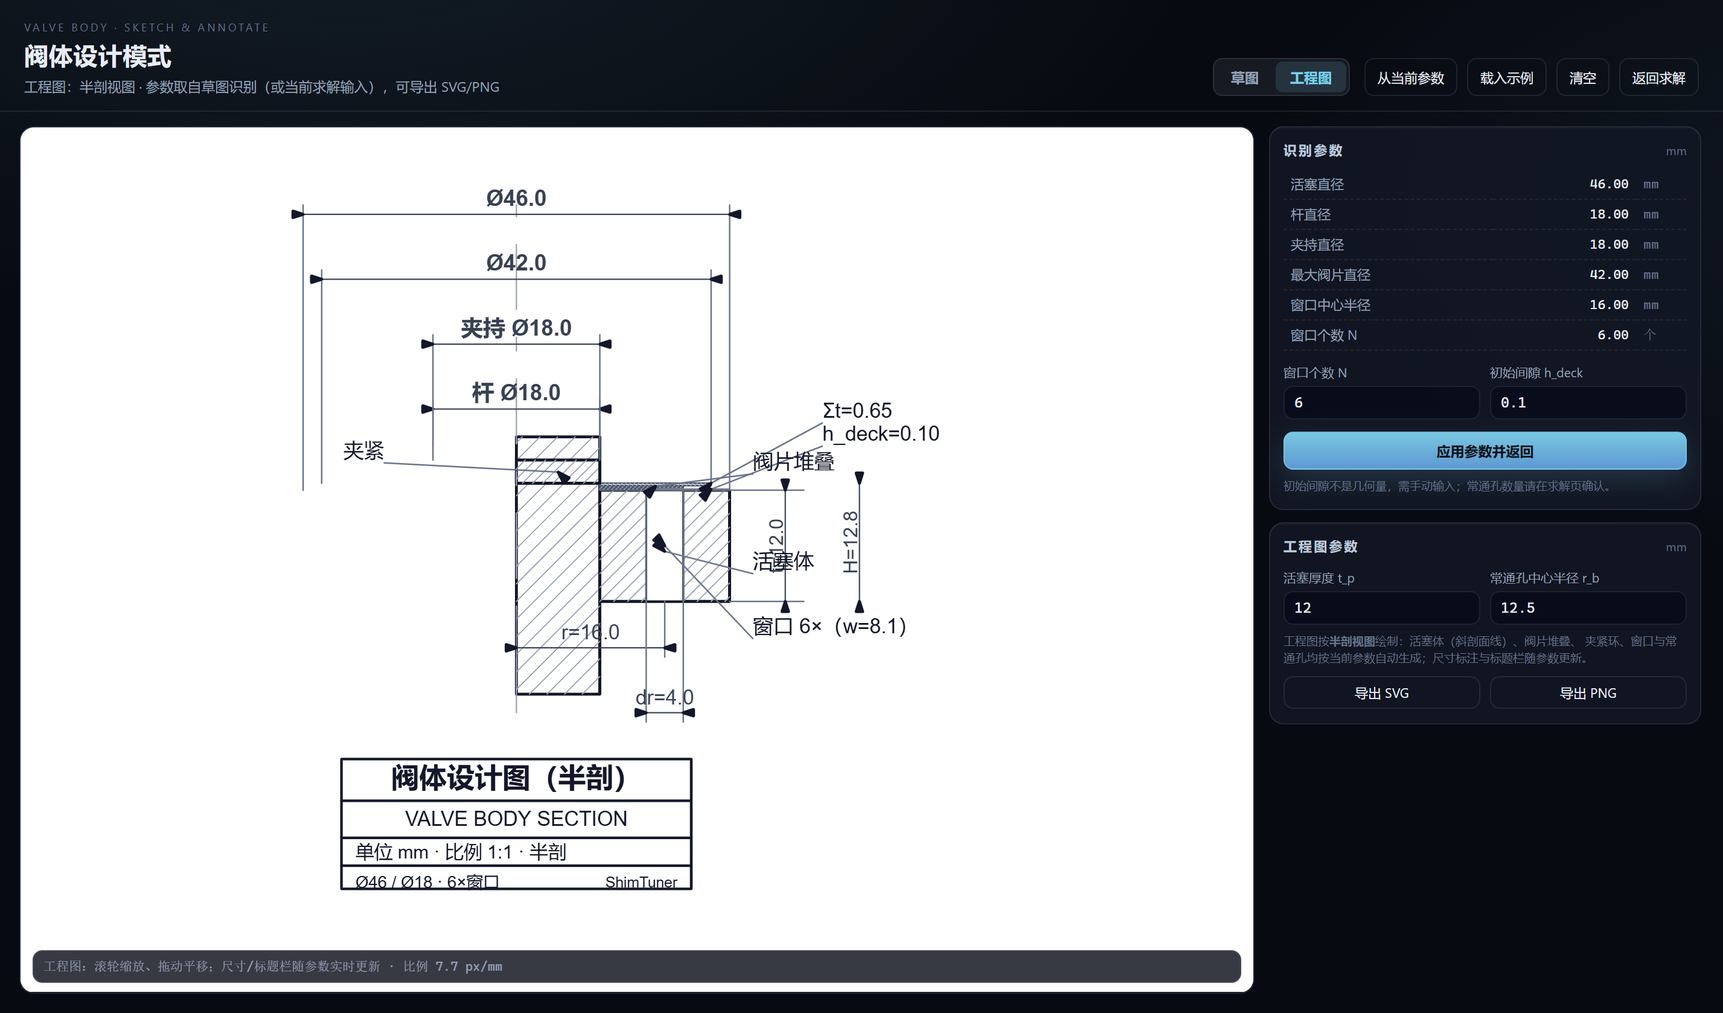
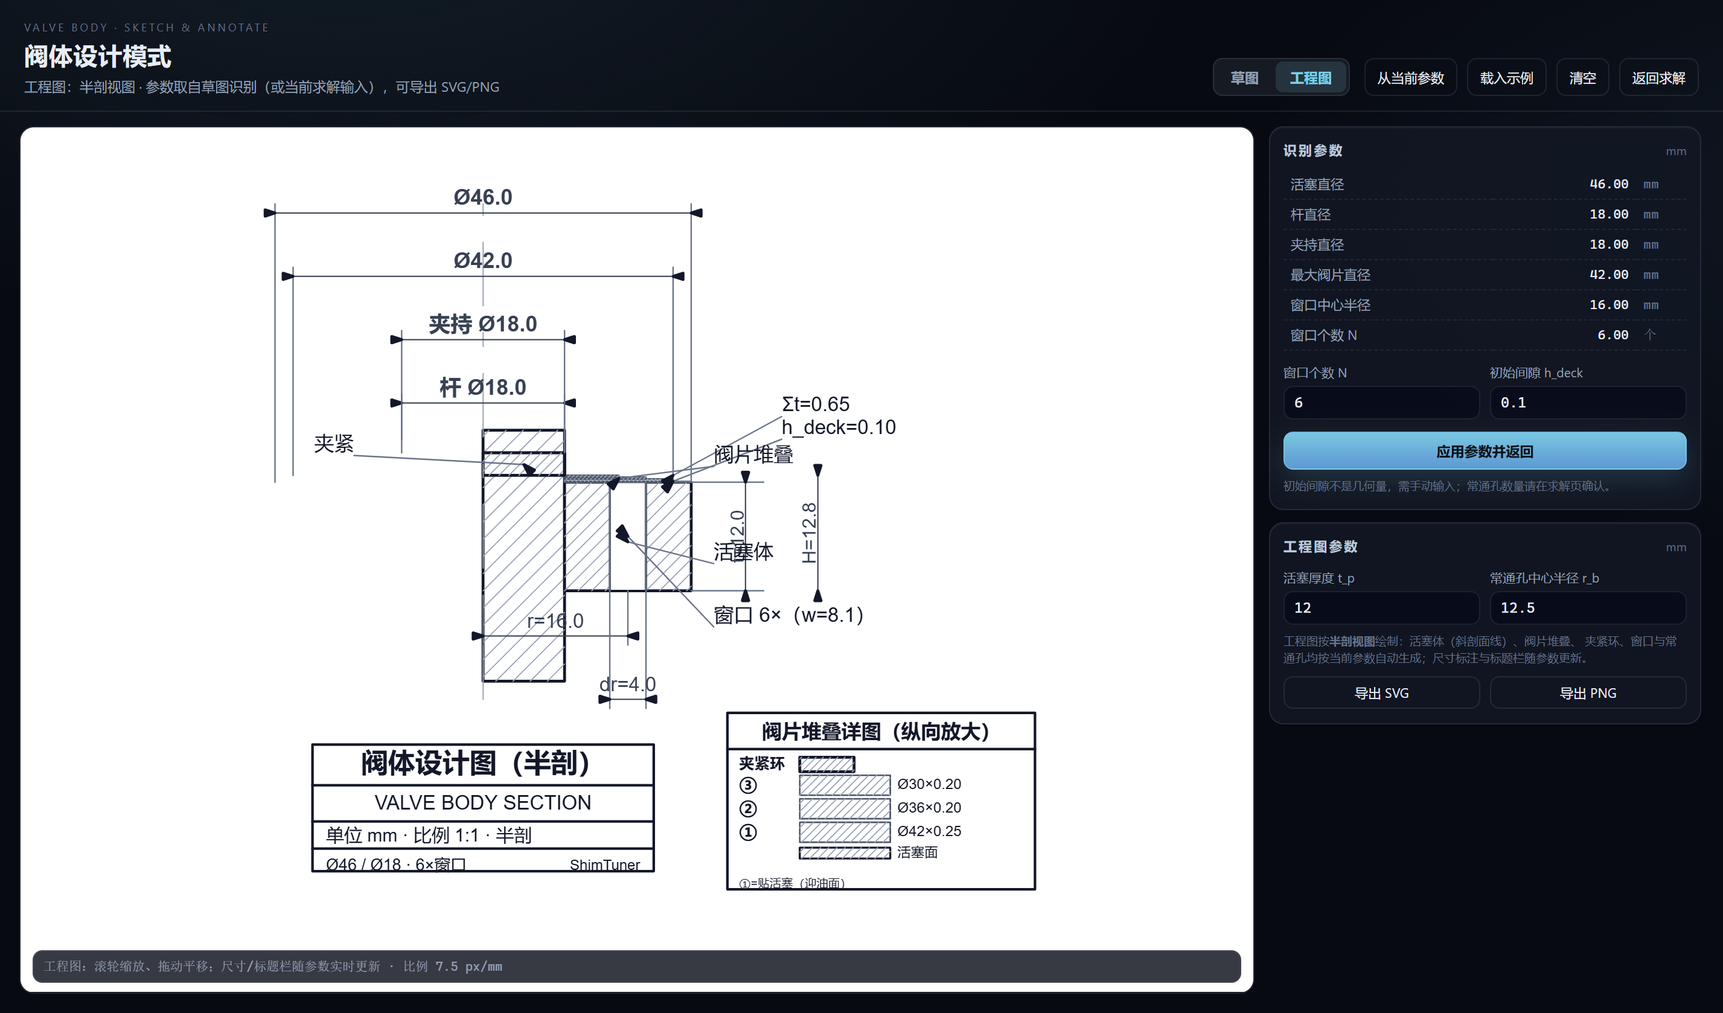
fix: 阀片层序修正（第 1 片贴活塞）+ 工程图堆叠详图 + 高速收敛加速
- 层序约定：layers[0] = 贴活塞第 1 片（迎油面），油压作用其底面，向上逐层接触传力
- FlowSolver：build_stack 反转层序交给 LayeredStack，并令 load_layer=最底层；间隙取自该层
- LayeredStack：新增 load_layer，载荷面按该层径向覆盖生成（不再固定顶片）
- 工程图：按用户层序自下而上绘制，新增阀片堆叠详图（①贴活塞/②/③/夹紧环，纵向放大）
- 收敛：自适应松弛 + 信赖域扩张；v=3 线性 53→21 次、vK 36→15 次
- 数值更新：线性 378.6 N、线性+窗口 451.2 N、vK 486.2 N、vK+窗口 547.4 N；默认迭代 265.0 N
- 测试：新增 LayerOrderTest（层序/底层加载/三片接触传力）与工程图详图断言；30+9 项通过

Changed region(s): [[0.1559, 0.2479, 0.5925, 0.8987], [0.1559, 0.1859, 0.4366, 0.2169], [0.2183, 0.3099, 0.343, 0.3409]]

diff --git a/FlowSolver/desktop/renderer/valve-drawing.js b/FlowSolver/desktop/renderer/valve-drawing.js
@@ -172,7 +172,8 @@
     // 初始间隙 + 阀片堆叠（最底下一片先画，state.layers[0] = 顶片）
     line(c, clampR, p.tP, Math.max(shimR, R), p.tP, 'thin');
     line(c, clampR, zShim0, Math.max(shimR, R), zShim0, 'thin');
-    const layers = p.layers.slice().reverse();
+    // p.layers[0] = 贴活塞第 1 片，自下而上绘制
+    const layers = p.layers.slice();
     let z = zShim0;
     for (const l of layers) {
       const x0 = Math.max(0, l.din / 2);
@@ -241,6 +242,39 @@
            R + 2.5, zTop + 1.0, '阀片堆叠', 'start');
     leader(c, clampR * 0.5, zTop + 1.2, -R * 0.62, zTop + 2.2, '夹紧', 'end');
 
+    // ---- 阀片堆叠详图（纵向放大，明确装配次序）----
+    const det = { x0: R + 4, x1: R + 38, z0: -33, z1: -13.5 };
+    rect(c, det.x0, det.z0, det.x1 - det.x0, det.z1 - det.z0, 'title', '#ffffff');
+    line(c, det.x0, det.z1 - 4, det.x1, det.z1 - 4, 'title');
+    text(c, (det.x0 + det.x1) / 2, det.z1 - 2.2, '阀片堆叠详图（纵向放大）',
+         2.2, 'text', 'center', true);
+    const detX = det.x0 + 8;
+    const barW = (dout) => Math.max(4, Math.min(10, dout / 2));
+    // 活塞面示意（详图底部）
+    rect(c, detX, det.z0 + 3.4, 10, 1.2, 'cut');
+    hatch(c, detX, det.z0 + 3.4, 10, 1.2, 'hatch', 0.9);
+    text(c, detX + 10.8, det.z0 + 4.0, '活塞面', 1.5, 'text', 'start');
+    text(c, det.x0 + 1.3, det.z0 + 0.6, '①=贴活塞（迎油面）', 1.3,
+         'text', 'start');
+    let dz = det.z0 + 5.2;
+    const circled = ['①', '②', '③', '④', '⑤', '⑥', '⑦', '⑧'];
+    // 与主图一致：第 1 片贴活塞，自下而上
+    for (let i = 0; i < p.layers.length && i < circled.length; i++) {
+      const l = p.layers[i];
+      const w = barW(l.dout);
+      rect(c, detX, dz, w, 2.2, 'shimline');
+      hatch(c, detX, dz, w, 2.2, 'shim', 0.9);
+      text(c, det.x0 + 1.3, dz + 1.1, circled[i], 2.0, 'text', 'start', true);
+      text(c, detX + w + 0.8, dz + 1.1,
+           'Ø' + l.dout.toFixed(0) + '×' + l.t.toFixed(2), 1.6,
+           'text', 'start');
+      dz += 2.2 + 0.4;
+    }
+    // 夹紧环（顶部）
+    rect(c, detX, dz, 6, 1.6, 'outline');
+    hatch(c, detX, dz, 6, 1.6, 'hatch', 0.8);
+    text(c, det.x0 + 1.3, dz + 0.8, '夹紧环', 1.7, 'text', 'start', true);
+
     // ---- 标题栏 ----
     const tb = { x0: -R * 0.82, x1: R * 0.82, z0: -31, z1: -17 };
     rect(c, tb.x0, tb.z0, tb.x1 - tb.x0, tb.z1 - tb.z0, 'title', '#ffffff');
@@ -257,8 +291,8 @@
     text(c, tb.x1 - 1.5, tb.z1 - 13.4, 'ShimTuner', 1.6, 'text', 'end');
 
     const bbox = {
-      x0: -R - 8, x1: R + 34,
-      z0: tb.z0 - 2, z1: dZ + 21 + 6,
+      x0: -R - 8, x1: R + 42,
+      z0: Math.min(tb.z0, det.z0) - 2, z1: dZ + 21 + 6,
     };
     return { cmds: c, bbox, p };
   }

diff --git a/FlowSolver/desktop/test-design.js b/FlowSolver/desktop/test-design.js
@@ -92,8 +92,13 @@ const svg = Drawing.toSVG(dwg);
 assert.ok(svg.startsWith('<svg'), 'SVG 头');
 assert.ok(svg.includes('VALVE BODY'), '标题栏');
 assert.ok(svg.includes('Ø46'), '直径标注');
-assert.strictEqual(dwg.cmds.filter((c) => c.s === 'shimline').length, 2,
-  '两层阀片都应绘制');
+assert.ok(svg.includes('阀片堆叠详图'), '应有阀片堆叠详图');
+assert.ok(svg.includes('①=贴活塞'), '详图应标出第 1 片贴活塞');
+const shimRects = dwg.cmds.filter((c) => c.s === 'shimline' && c.y > 0);
+assert.strictEqual(shimRects.length, 2, '两层阀片都应绘制');
+// 层序：第 1 片（42）贴活塞 → 画在下方且更宽；第 2 片（36）在其上
+assert.ok(shimRects[0].y < shimRects[1].y, '第 1 片应在下方（贴活塞）');
+assert.ok(shimRects[0].w > shimRects[1].w, '第 1 片（42）应比上一层（36）宽');
 
 // 9) 圆形过孔与长条窗口都用同一套参数识别
 const circWin = V.windowGeometry({ kind: 'circle', cx: 12, cy: 0, r: 2 });

diff --git a/FlowSolver/desktop/renderer/index.html b/FlowSolver/desktop/renderer/index.html
@@ -87,7 +87,7 @@
       </section>
 
       <section class="panel compact" id="layerPanel">
-        <div class="panel-head"><h2>阀片堆叠</h2><span class="panel-hint">迭代模式 · 第 1 行 = 顶片</span></div>
+        <div class="panel-head"><h2>阀片堆叠</h2><span class="panel-hint">迭代模式 · 第 1 行 = 贴活塞（迎油面），向上依次</span></div>
         <div class="layer-head"><span>#</span><span>内径 mm</span><span>外径 mm</span><span>厚度 mm</span><span></span></div>
         <div class="layer-rows" id="layerRows"></div>
         <div class="row-actions">

diff --git a/DeflectionSolver/shim_layered.py b/DeflectionSolver/shim_layered.py
@@ -6,6 +6,8 @@
       等效阶梯刚度板）的**分层升级版**。网格、单元（Q4 Mindlin, 剪切 1×1 减缩）
       与 `shim_element` 完全共用，唯一区别:
         * 每层有自己的中面位移场 (u,v,w,φx,φy)，不再压成单张等效板;
+        * 层序约定：layers[0] = 最上层（默认 load_layer=0，顶面受压）；
+          FlowSolver 使用 layers[0]=贴活塞第1片，故反转层序后令 load_layer=最底层。
         * 层间只有**法向罚接触**（可分离、不传切向力 = μ=0）;
         * 每层在自己的内缘 max(clamp, aᵢ) 处固支。
 
@@ -71,7 +73,7 @@ class LayeredStack:
                  clamp_radius_mm: float | None = None,
                  k_n: float = 1e15, max_outer_iter: int = 20,
                  nl: bool = False, follower: bool = False,
-                 sector: int = 1):
+                 sector: int = 1, load_layer: int = 0):
         self.layers = [l if isinstance(l, ShimLayer) else ShimLayer(*_triple(l))
                        for l in layers]
         if not self.layers:
@@ -83,6 +85,9 @@ class LayeredStack:
         self.max_outer_iter = int(max_outer_iter)
         self.nl = bool(nl)
         self.follower = bool(follower)
+        # 受压层：默认 0（最上层，经典"顶片受压"用法）；
+        # FlowSolver 用 layers[0]=贴活塞第1片的约定，会反转后令 load_layer=最底层。
+        self.load_layer = int(load_layer)
 
         clamp_mm = (clamp_radius_mm if clamp_radius_mm is not None
                     else min(l.d_in_mm for l in self.layers) / 2.0)
@@ -112,6 +117,8 @@ class LayeredStack:
         self.gs = q4_geo(self.x, self.y, GAUSS_1X1)[0]
         self.er_map = np.arange(self.M) // self.n_theta
 
+        if not (0 <= self.load_layer < len(self.layers)):
+            raise ValueError("load_layer 超出层数范围")
         self._build_layers()
         self._build_contact()
         self._build_load()
@@ -282,16 +289,29 @@ class LayeredStack:
         self._prep = None           # 非线性装配的常值单元数据缓存
 
     # ---------------- 载荷 ----------------
+    def _load_face_mask(self) -> np.ndarray:
+        """load_layer 的单元载荷面掩膜（按该层径向覆盖，而非固定顶片）."""
+        li = self.load_layer
+        layer = self.layers[li]
+        r_in = max(self.clamp_m, layer.a_m)
+        band = ((self.mesh["rm_c"] >= r_in - 1e-12)
+                & (self.mesh["rm_c"] <= layer.b_m + 1e-12))
+        face_c = np.asarray(band, dtype=bool)
+        face_e = np.repeat(face_c, self.n_theta)
+        mask = np.zeros(self.M, dtype=bool)
+        mask[self.elem_i[li]] = True
+        mask &= face_e
+        return mask
+
     def _build_load(self):
-        face = self.mesh["face_e"]
-        keep = np.zeros(self.M, dtype=bool)
-        keep[self.elem_i[0]] = True
+        keep = self._load_face_mask()
+        li = self.load_layer
         top_conn = self.conn[keep]
-        top_w = self.ldof[0][top_conn][:, :, 2]          # (Mt,4)
+        top_w = self.ldof[li][top_conn][:, :, 2]          # (Mt,4)
         f_unit = np.zeros(self.n_dof)
         for (N, dNx, dNy, ajd) in self.gb:
             fe = (ajd[:, None] * N)
-            fe[~(face & keep)] = 0.0
+            fe[~keep] = 0.0
             rep_w = self.dof_rep[top_w]
             ok = rep_w >= 0
             np.add.at(f_unit, rep_w[ok], fe[keep][ok])
@@ -304,10 +324,8 @@ class LayeredStack:
         ∫ N·p dA 装配。设置后用 ``solve(1.0)`` 求解（此时 f_unit 已是 N）。
         传负压即等效于反向（例如从阀片底面把阀片顶开）。
         """
-        face = self.mesh["face_e"]
-        keep = np.zeros(self.M, dtype=bool)
-        keep[self.elem_i[0]] = True
-        keep &= face
+        keep = self._load_face_mask()
+        li = self.load_layer
         rbar = self.mesh["rbar_e"][keep]
         thbar = self.mesh["thbar_e"][keep]
         p_e = np.asarray(pressure(rbar, thbar), dtype=float)
@@ -315,7 +333,7 @@ class LayeredStack:
             p_e = np.full(rbar.shape, float(p_e))
         if p_e.shape != rbar.shape:
             raise ValueError("pressure() 返回值形状必须与 r 一致")
-        top_w = self.ldof[0][self.conn[keep]][:, :, 2]
+        top_w = self.ldof[li][self.conn[keep]][:, :, 2]
         f = np.zeros(self.n_dof)
         for (N, dNx, dNy, ajd) in self.gb:
             fe = ajd[keep][:, None] * N[None, :] * p_e[:, None]

diff --git a/FlowSolver/coupling.py b/FlowSolver/coupling.py
@@ -113,12 +113,18 @@ def build_stack(layers_mm, piston, spec: IterationSpec) -> LayeredStack:
     只解 1/N 扇区 + 周期边界，DOF 降为 1/N；等效全环分辨率 = n_theta_eff。
     要求 n_theta_eff 能被 N 整除且每扇区 ≥3 个周向单元，否则退回整环。
     """
-    layers = [ShimLayer(float(a), float(b), float(t)) for a, b, t in layers_mm]
+    # FlowSolver 约定：layers_mm[0] = 贴活塞的第 1 片（迎油面），向上依次；
+    # LayeredStack 约定：layers[0] = 最上层（离活塞最远）。
+    # 因此这里反转层序，并把载荷施加到反转后的最底层（= 用户第 1 片）。
+    layers_std = [ShimLayer(float(a), float(b), float(t))
+                  for a, b, t in layers_mm]
+    layers = list(reversed(layers_std))
     sector, n_theta = sector_plan(piston, spec)
     return LayeredStack(layers, n_elem_base_radial=spec.n_radial,
                         n_theta=n_theta,
                         clamp_radius_mm=piston.seat_radius_mm,
-                        nl=spec.nl, sector=sector)
+                        nl=spec.nl, sector=sector,
+                        load_layer=len(layers) - 1)
 
 
 def window_profile(piston, contrast=None):
@@ -206,7 +212,9 @@ def _pressure_fn(res_flow, piston, p_back, spec: IterationSpec | None = None):
 
 
 def _stack_w(stack: LayeredStack) -> np.ndarray:
-    return np.array([stack.w_matrix(0)[i].mean() for i in range(stack.n_r)])
+    # 流通间隙由"贴活塞第 1 片"（反转后的 load_layer）决定
+    li = int(getattr(stack, "load_layer", 0))
+    return np.array([stack.w_matrix(li)[i].mean() for i in range(stack.n_r)])
 
 
 def iterate_point(v_mps: float, piston, fluid, stack: LayeredStack,
@@ -218,7 +226,8 @@ def iterate_point(v_mps: float, piston, fluid, stack: LayeredStack,
     Q = kin["Q_valve_m3s"]                 # 通过活塞阀的总流量（主阀 + 常通孔）
     Q_rod = kin["Q_rod_m3s"]               # 杆侵入油缸的体积速度
     p_back = fluid.p_back_MPa * 1e6
-    step = spec.relax_step_um * 1e-6
+    step0 = spec.relax_step_um * 1e-6
+    step = step0
     hist: list[dict] = []
     converged = False
     res = None
@@ -241,14 +250,28 @@ def iterate_point(v_mps: float, piston, fluid, stack: LayeredStack,
         else:
             stack.solve(1.0)
         w_new = _stack_w(stack)
-        delta = np.clip(w_new - w, -step, step)
+        raw = w_new - w
+        clipped = bool(np.any(np.abs(raw) > step))
+        delta = np.clip(raw, -step, step)
         d = float(np.abs(delta).max())
-        w = w + spec.alpha * delta
-        hist.append(dict(iter=it, residual_um=d * 1e6,
+        # 自适应松弛：残差稳定下降时逐步加大 α；回升时回退（外层定点加速）
+        alpha = spec.alpha
+        if hist:
+            ratio = d / max(hist[-1]["_d_m"], 1e-18)
+            if ratio < 0.8:
+                alpha = min(0.85, alpha + 0.05)
+            elif ratio > 1.05:
+                alpha = max(0.2, alpha * 0.8)
+        w = w + alpha * delta
+        # 信赖域扩张：持续被截断且残差未回升时放大步长（高速工况少迭代）
+        if clipped and (not hist or d <= hist[-1]["residual_um"] * 1e-6 + 1e-18):
+            step = min(step * 1.6, step0 * 4.0)
+        hist.append(dict(iter=it, residual_um=d * 1e6, _alpha=alpha,
                          F_N=res.F_damper, dp_MPa=res.dp_total / 1e6,
                          h_port_um=res.h_port * 1e6,
                          w_tip_um=float(w[-1]) * 1e6,
-                         Q_bypass_m3s=res.Q_bypass_m3s))
+                         Q_bypass_m3s=res.Q_bypass_m3s,
+                         _d_m=d))
         if d < spec.tol_um * 1e-6:
             converged = True
             break
@@ -257,6 +280,9 @@ def iterate_point(v_mps: float, piston, fluid, stack: LayeredStack,
     gap = cf.ArrayGap(r_shim, -w, h_deck_m=piston.h_deck_m())
     fin = cf.solve_split(Q, piston, fluid, gap, n_grid=spec.grid,
                          C_d=spec.C_d, C_f=spec.C_f)
+    for h in hist:
+        h.pop("_d_m", None)
+        h.pop("_alpha", None)
     return dict(v_mps=float(v_mps), Q_m3s=Q, Q_rod_m3s=Q_rod, kin=kin,
                 w=w, res=fin, history=hist,
                 converged=converged, iterations=len(hist),

diff --git a/FlowSolver/backend/service.py b/FlowSolver/backend/service.py
@@ -379,13 +379,15 @@ def iterate(req) -> dict[str, Any]:
                                 fin.r_m * 1e3, fin.p_pa / 1e6)],
                 markers=_markers(piston))
     defl_series = []
+    n_layers = len(stack.layers)
     for i, layer in enumerate(stack.layers):
         ir = np.unique(stack.nodes_i[i] // stack.n_theta_nodes)
         r_i = stack.r_nodes[ir] * 1e3
         w_i = [stack.w_matrix(i)[j].mean() * 1e6 for j in ir]
         defl_series.append(_series(
-            f"w{i}", f"第{i+1}片 Ø{layer.d_out_mm:g}", PALETTE["accent2"],
-            r_i, w_i, dash="solid" if i == 0 else "dash"))
+            f"w{i}", f"第{n_layers - i}片 Ø{layer.d_out_mm:g}（自活塞向上）",
+            PALETTE["accent2"],
+            r_i, w_i, dash="solid" if i == n_layers - 1 else "dash"))
     defl = dict(title="收敛后的挠度场 w(r)（负值 = 抬升）",
                 x_label="半径 r [mm]", y_label="挠度 w [µm]",
                 series=defl_series, markers=_markers(piston))
@@ -448,6 +450,7 @@ def iterate(req) -> dict[str, Any]:
     notes = ["迭代变量 w(r) = 阀片挠度场；压力场由 FlowSolver 给出，"
              "挠度由 DeflectionSolver 分层模型给出。",
              "负 w = 阀片被油压顶开；间隙 h = h_deck − w。",
+             "层序：layers[0] = 贴活塞第 1 片（迎油面），油压作用其底面，向上逐层接触传力。",
              "v0 迭代：固定松弛 + 信赖域；收敛判据 max|Δw| < tol。"]
     if spec.window_load:
         notes.append("窗口分布载荷（v2）：基础流场压力乘以周向平滑调制 "

diff --git a/FlowSolver/tests/test_backend_service.py b/FlowSolver/tests/test_backend_service.py
@@ -430,5 +430,33 @@ class ViscosityTest(unittest.TestCase):
         self.assertIn("cSt", line[0])
 
 
+class LayerOrderTest(unittest.TestCase):
+    """层序约定：UI 第 1 行 = 贴活塞（迎油面），LayeredStack 内部反转并加载底层."""
+
+    def test_stack_reversed_and_bottom_loaded(self):
+        piston, fluid = cf.demo_piston(), cf.DEMO_FLUID
+        user_layers = [(18, 42, 0.25), (18, 36, 0.20), (18, 30, 0.20)]
+        spec = cp.IterationSpec(n_radial=8, n_theta=12)
+        stack = cp.build_stack(user_layers, piston, spec)
+        # 内部层序：最上层 → 贴活塞层
+        self.assertEqual([l.d_out_mm for l in stack.layers], [30.0, 36.0, 42.0])
+        self.assertEqual(stack.load_layer, 2)
+        self.assertEqual(stack.layers[stack.load_layer].d_out_mm, 42.0)
+
+    def test_pressure_on_piston_side_couples_all_layers(self):
+        piston = cf.demo_piston()
+        user_layers = [(18, 42, 0.25), (18, 36, 0.20), (18, 30, 0.20)]
+        spec = cp.IterationSpec(n_radial=8, n_theta=12)
+        stack = cp.build_stack(user_layers, piston, spec)
+        stack.set_pressure(lambda r, th: -1.0e6)
+        stack.solve(1.0)
+        # 第 1 片（贴活塞）受油压，经接触向上逐层传力：三片都应变形
+        for i in range(len(stack.layers)):
+            wm = stack.w_matrix(i)
+            self.assertGreater(float(np.abs(wm).max()), 1e-6,
+                               f"第{i+1}层未参与变形（接触未传力）")
+        self.assertGreater(stack.info["n_active"], 0)
+
+
 if __name__ == "__main__":
     unittest.main(verbosity=2)

diff --git a/FlowSolver/README.md b/FlowSolver/README.md
@@ -170,8 +170,10 @@ Tk GUI 与桌面端「活塞数据」中的**常通孔 Ø / 个数 / C_d**、
 | 线性 + 窗口分布 12×48（扇区 6×8） | — | **≈0.05 s/点** |
 | **vK + 窗口分布 12×48（扇区 6×8）** | **≈183.6 s/点** | **≈3.0 s/点（≈60×）** |
 
-结果不变（F 分别 249.8 / 282.2 / 369.8 N 与优化前一致）。扇区降维后 **vK + 窗口分布
-12×48 从 183.6 s/点降到 3.0 s/点（约 60×）**，F 与迭代次数完全相同（411.63 N / 13 次）。
+层序修正（第 1 片贴活塞、油压作用其底面）后实测：线性 12×12 **378.6 N**、
+线性+窗口 12×48 **451.2 N**、vK 12×12 **486.2 N**、vK+窗口 12×48 **547.4 N**。
+扇区降维后 **vK + 窗口分布 12×48 从 183.6 s/点降到约 3 s/点（约 60×）**，
+F 与迭代次数与整环一致（547.42 N / 12 次）。
 vK 的剩余时间主要在 Newton 迭代与稀疏分解；下一步可做 Aitken/Anderson 外层加速、
 向量化稀疏组装，或分阶段 vK（线性收敛后 1–2 次 vK 修正）。
 
@@ -243,11 +245,11 @@ tol_um, max_iter, relax_step_um, nl, n_radial, n_theta, window_load, window_cont
   "charts": {"convergence": {...}, "pressure": {...}, "deflection": {...}},
   "report": {"kpis": [...], "warnings": [...], "lines": [...]},
   "meta": {"converged": true, "iterations": 13, "residual_um": 1.17,
-           "history": [...], "F_damper": 176.6}
+           "history": [...], "F_damper": 265.0}
 }
 ```
 
-默认演示（3 片 18/42、18/36、18/30，v=0.15 m/s）13 次迭代收敛，残差 1.2 µm，单点约 0.2 s。
+默认演示（3 片 18/42、18/36、18/30，v=0.15 m/s；**第 1 片贴活塞，油压作用其底面**）约 10 次迭代收敛，残差 ~1 µm，单点约 0.2 s。
 
 ### 窗口分布载荷（v2，可选）
 
@@ -310,7 +312,7 @@ $$\sigma_c=\frac{w_{port}}{2}\ (\text{周向}),\qquad
 }
 ```
 
-默认演示（3 片，v 0.02→0.5 m/s，6 点，16×12 网格）：**F ≈ 48 → 423 N，6/6 收敛**，
+默认演示（3 片，v 0.02→0.5 m/s，6 点，16×12 网格）：**F ≈ 68 → 648 N，6/6 收敛**，
 平均 8.7 次迭代，约 1 s（优化后；热启动显著减少后续点迭代次数）。
 
 ## 杆速–阻尼力接口 `/api/rod-curve`
@@ -333,8 +335,8 @@ Q_valve = (A_p − A_rod)·v   通过活塞阀的流量 ← 本求解器输入
 
 | 行程 | v=0.05 | v=0.15 | v=0.25 m/s |
 |---|---|---|---|
-| 压缩（3 片） | 90.6 N | 193.2 N | 280.4 N |
-| 回弹（2 片薄堆叠） | 60.9 N | 127.9 N | 184.4 N |
+| 压缩（3 片） | 121.0 N | 265.0 N | 388.2 N |
+| 回弹（2 片薄堆叠） | 102.7 N | 222.6 N | 324.8 N |
 
 对应 Q_valve = 70.4 / 211.1 / 351.9 mL/s，Q_rod = 12.7 / 38.2 / 63.6 mL/s；
 每点内部仍是 Q→w→P→w′ 闭环迭代（压缩 6 点约 1 s）。

diff --git a/README.md b/README.md
@@ -88,10 +88,10 @@ python -m unittest discover -s tests -v # 后端回归 15 项
 * 桌面端：两套 Electron 工作台均可运行——DeflectionSolver（挠度）与
   FlowSolver（流道-压力场：单点 / 耦合迭代 / Q–F 曲线 / **v–F 杆速**）。
 * Q–F 曲线：`ShimTuner/fv_curve.py`（总入口）或后台 `/api/fv-curve` / 桌面端「Q–F 曲线」模式，
-  逐点闭环迭代（热启动）；默认 6 点 F ≈ 48→423 N，6/6 收敛，约 30 s。
+  逐点闭环迭代（热启动）；默认 6 点 F ≈ 68→648 N，6/6 收敛。
 * **v–F 杆速**：流量由杆侵入油缸的体积速度决定（`Q_valve=(A_p−A_rod)·v`，
   `Q_rod=A_rod·v`）；后台 `/api/rod-curve` / 桌面端「v–F 杆速」/ CLI `--direction both`
-  可同时给压缩、回弹两条分支（各自阀片堆叠）。默认压缩 6 点 F ≈ 48→423 N；
+  可同时给压缩、回弹两条分支（各自阀片堆叠）。默认压缩 6 点 F ≈ 68→648 N；
   示例双分支（压缩 3 片 / 回弹 2 片薄堆叠）v≤0.25 m/s：压缩 280 N、回弹 184 N。
 * 油液黏度：支持工作温度 T + KV40/KV100/VI（ASTM D341 外推 ν(T)、ASTM D2270 校验 VI）；
   未启用时仍用手动 cSt，后端/桌面端/CLI 均已接入。
@@ -105,5 +105,5 @@ python -m unittest discover -s tests -v # 后端回归 15 项
 * 阀体设计：Flow Studio 顶栏「阀体设计」→ 草图（绘制/标注/自动识别，支持从当前参数生成、
   撤销/重做、缩放）与**工程图**（半剖 CAD：剖面线、尺寸、标题栏，可导出 SVG/PNG）。
 * 端到端演示：`FlowSolver/backend /api/iterate` 调用 DeflectionSolver 的分层模型，
-  默认 3 片堆叠、v=0.15 m/s 迭代收敛，F ≈ 177 N；Electron 冒烟
+  默认 3 片堆叠、v=0.15 m/s 迭代收敛，F ≈ 265 N（第 1 片贴活塞、油压作用其底面）；Electron 冒烟
   `npm run smoke` / `smoke:iterate` / `smoke:curve` / `smoke:rod` 均通过。
